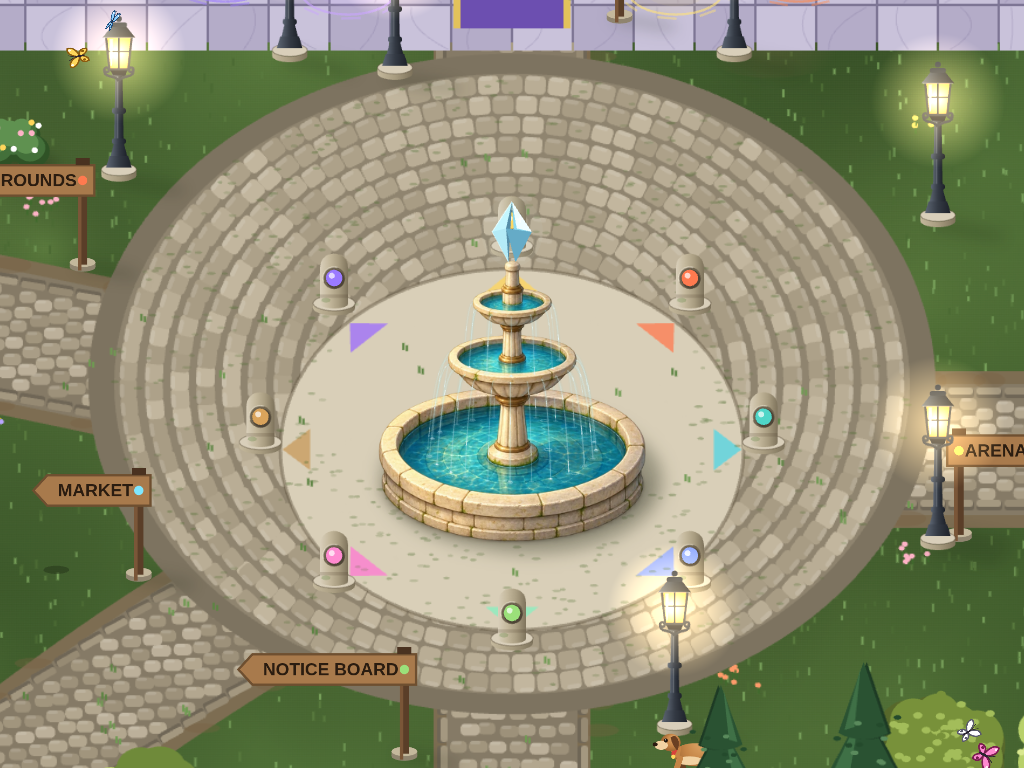
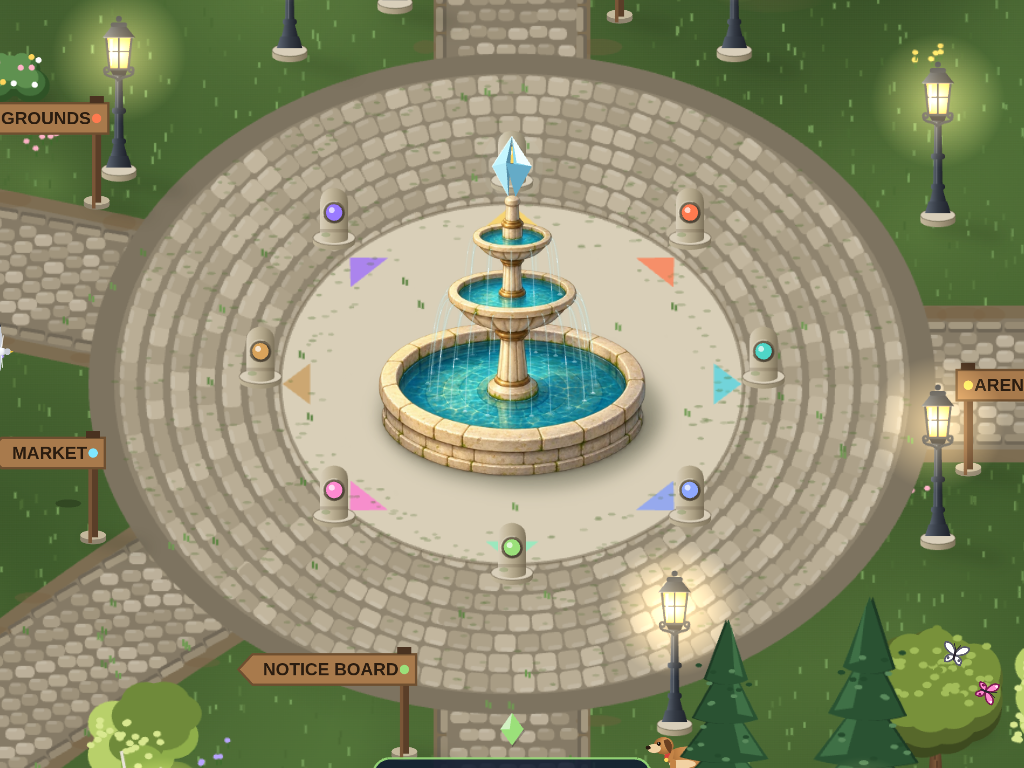
Restore concentric plaza paving and elemental rings

diff --git a/apps/client/tests/town-fountain.test.ts b/apps/client/tests/town-fountain.test.ts
@@ -5,7 +5,6 @@ import {
   TOWN_PLAZA_ROAD,
   TOWN_PLAZA_LAMPS,
 } from "../../../packages/shared/src/town";
-import { FOUNTAIN } from "../src/town-art";
 
 describe("central plaza fountain", () => {
   const f = TOWN_OBSTACLES.find((o) => o.kind === "fountain")!;
@@ -36,17 +35,17 @@ describe("central plaza fountain", () => {
     }
   });
 
-  it("frames the full fountain within the circular road", () => {
-    const top = f.y + FOUNTAIN.crystal.dy - FOUNTAIN.crystal.ry;
-    const bottom = f.y + FOUNTAIN.basin.ry + FOUNTAIN.basin.wall;
-    const above = top - (TOWN_PLAZA_ROAD.y - TOWN_PLAZA_ROAD.ry);
-    const below = TOWN_PLAZA_ROAD.y + TOWN_PLAZA_ROAD.ry - bottom;
-    expect(above).toBeGreaterThan(0);
-    expect(below).toBeGreaterThan(0);
-    expect(Math.abs(above - below)).toBeLessThan(32);
-    // The independent paving centre must not move the basin or tag circle.
-    expect(f.y).toBe(1080);
+  it("keeps the road, inner circle, markers and basin concentric", () => {
+    expect(TOWN_PLAZA_ROAD.x).toBe(f.x);
+    expect(TOWN_PLAZA_ROAD.y).toBe(f.y);
+    const radii: number[] = [];
     for (const stone of TOWN_OBSTACLES.filter((o) => o.kind === "stone")) {
+      radii.push(
+        Math.hypot(
+          (stone.x - TOWN_PLAZA_ROAD.x) / TOWN_PLAZA_ROAD.rx,
+          (stone.y - TOWN_PLAZA_ROAD.y) / TOWN_PLAZA_ROAD.ry,
+        ),
+      );
       expect(
         Math.hypot(
           (stone.x - TOWN_PLAZA_ROAD.x) / (TOWN_PLAZA_ROAD.rx - 16),
@@ -54,9 +53,10 @@ describe("central plaza fountain", () => {
         ),
       ).toBeLessThan(1);
     }
+    expect(Math.max(...radii) - Math.min(...radii)).toBeLessThan(1e-10);
   });
 
-  it("keeps the perimeter lamps outside the shifted paving", () => {
+  it("keeps the perimeter lamps outside the paving", () => {
     for (const lamp of TOWN_PLAZA_LAMPS) {
       expect(
         Math.hypot(

diff --git a/packages/shared/src/town.ts b/packages/shared/src/town.ts
@@ -36,11 +36,10 @@ export const TOWN = {
   },
 } as const;
 
-/** The paving frames the raised monument; the basin and elemental ring keep
- * their ground centre at TOWN.plaza. Roads still meet inside the forecourt. */
+/** Every paving ring shares the basin and elemental markers' ground centre. */
 export const TOWN_PLAZA_ROAD = {
   x: TOWN.plaza.x,
-  y: TOWN.plaza.y - 56,
+  y: TOWN.plaza.y,
   rx: TOWN.plaza.r,
   ry: TOWN.plaza.r * 0.78,
 } as const;

diff --git a/docs/town-fountain.md b/docs/town-fountain.md
@@ -3,9 +3,9 @@
 The basin sits at the centre of the circle formed by the eight elemental
 markers, sharing the compass inlay's centre. The fountain collision uses that
 same position. The markers stand on a wider concentric ring and stay clear of
-the basin. The outer circular road has its own visual centre, 56 world pixels
-farther up, framing the fountain's full height. Its cobbles, moss and perimeter
-lamps follow that centre; signposts remain beside the roads at their new exits.
+the basin. The outer road, inner circle, markers and basin all share one ground
+centre. Cobbles, moss and perimeter lamps follow the same centre; signposts
+remain beside the roads at their exits.
 
 The new illustration adds carved limestone, weathering at wet joints, bronze
 collars, depth in the bowls and refracted light in the water. Transparent animated
@@ -20,7 +20,7 @@ cannot load. Reduced motion leaves a still fountain.
 The compact WebP is included in the offline precache. Source artwork and its
 placement notes are in `apps/client/art-source/town/`. Client tests check the
 basin against opposite pairs of markers and its clearance from all eight stones,
-the full monument's framing within the road, and perimeter lamp placement;
+concentric road and marker rings, and perimeter lamp placement;
 the town movement tests continue to check collision against the fountain.
 Water tests also cover rim alignment, landing bounds, downward acceleration and
 reduced motion. A browser check verifies visible movement at both cascade levels
